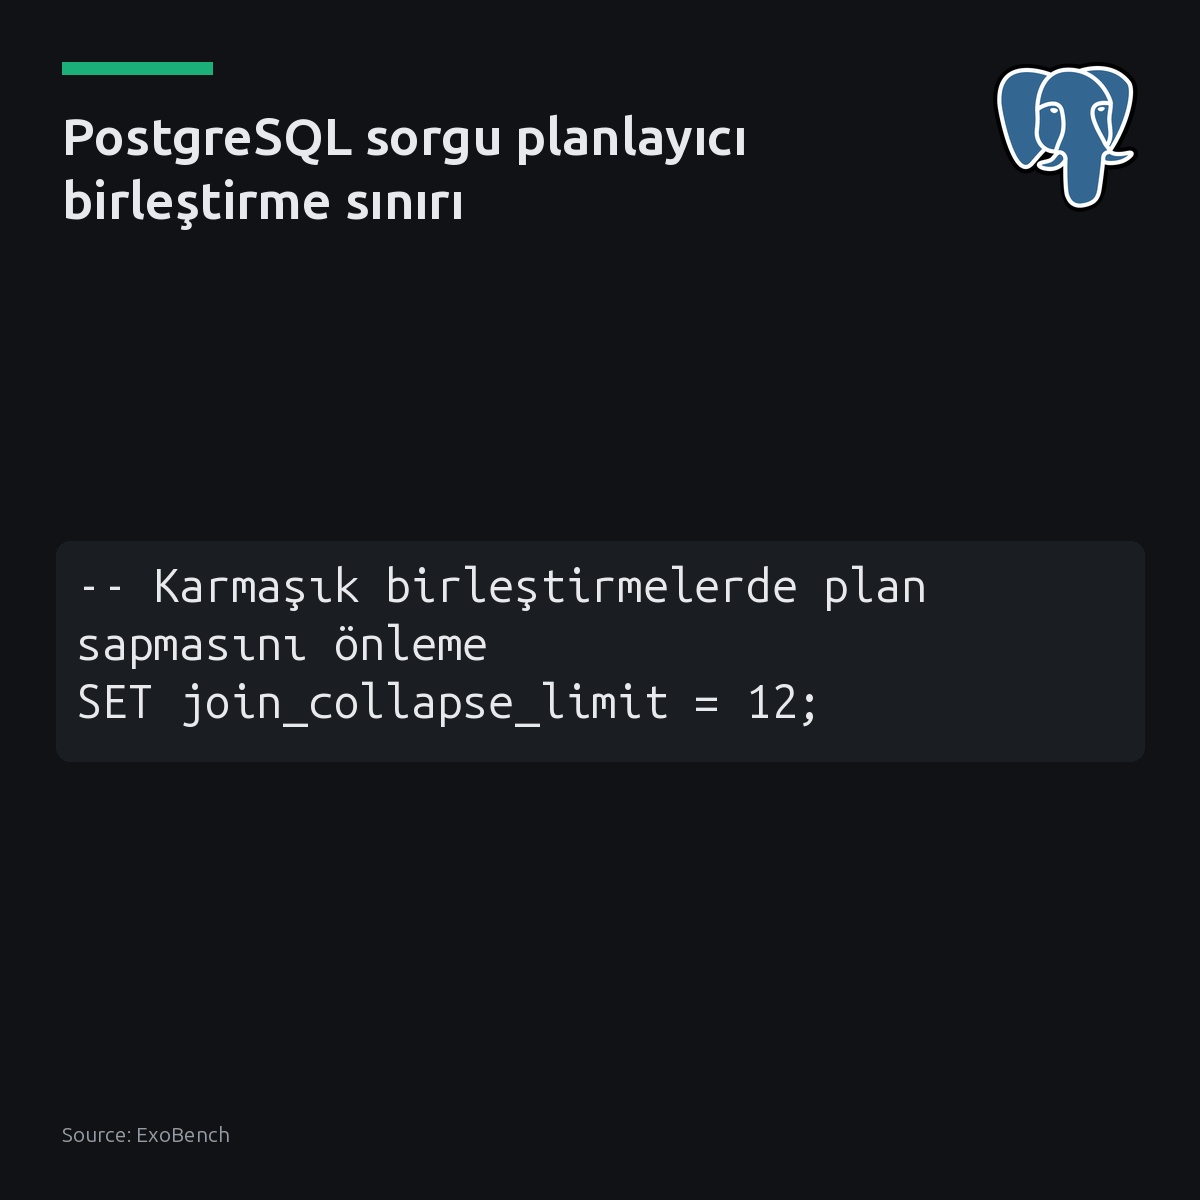
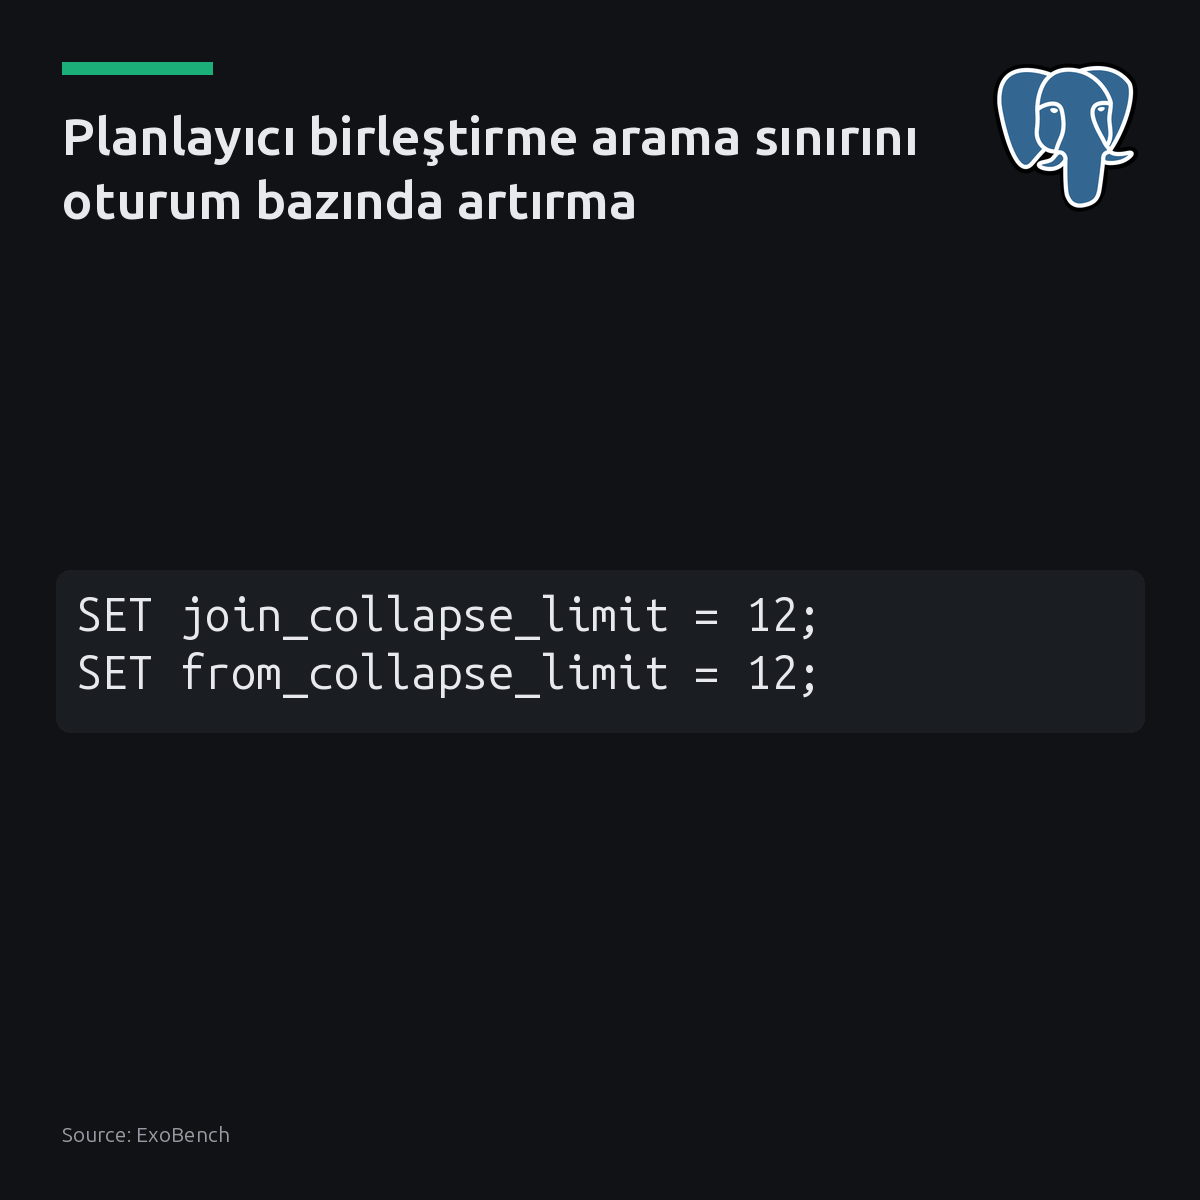
linkedin 2026-09-06: 3 gönderi

Changed region(s): [[0.0617, 0.4625, 0.7708, 0.6167], [0.0308, 0.0925, 0.7708, 0.185]]

diff --git a/linkedin/2026-09-06/index.html b/linkedin/2026-09-06/index.html
@@ -26,37 +26,26 @@ details{margin:.8rem 0 0;font-size:.88rem;color:#5b6067}
 function cp(id,btn){const t=document.getElementById(id).innerText;
  navigator.clipboard.writeText(t).then(()=>{const o=btn.textContent;btn.textContent='Kopyalandı';
  setTimeout(()=>btn.textContent=o,1500)});}
-</script><h1>2026-09-06 — 4 gönderi</h1><p class=sub>Metni kopyala, kartı indir, LinkedIn'de yapıştır. Bağlantılar gönderiye değil ilk yoruma.</p><div class="card"><img src="01-kart.png" alt=""><div class="pad"><pre id="p0">Dokuz tabloluk bir sorguya beş satırlık arama tablosu eklemek, süreyi 0.3ms&#x27;den 467ms&#x27;ye fırlatabiliyor.
+</script><h1>2026-09-06 — 3 gönderi</h1><p class=sub>Metni kopyala, kartı indir, LinkedIn'de yapıştır. Bağlantılar gönderiye değil ilk yoruma.</p><div class="card"><img src="01-kart.png" alt=""><div class="pad"><pre id="p0">Dokuz tabloluk bir sorguya 5 satırlık referans tablosu eklemek, süreyi 0.3 ms&#x27;den 467 ms&#x27;ye fırlattı.
 
-Nedeni tablonun büyüklüğü değil; PostgreSQL&#x27;in 2005&#x27;ten beri varsayılan join_collapse_limit değerinin 8 olması. Planlayıcı sekiz tabloya kadar tüm birleştirme sıralarını eksiksiz tarayarak en uygun planı bulabiliyor. Arama sınırı aşıldığında ise planlayıcı arama maliyetini kısmak için iç içe döngüleri terk edip karma birleştirmeye geçiyor.
+Sorgu bu tablo olmadan her ölçekte 0.3 ms içinde tamamlanıyordu. Sorun veri hacmi değil. PostgreSQL, 2005 yılından beri join_collapse_limit parametresini varsayılan olarak 8 değerinde tutuyor. Sorgudaki tablo sayısı bu eşiği aştığında, optimizasyon motoru dinamik programlama tabanlı kapsamlı arama algoritmasını devreden çıkarıyor. Kısıtlı sezgisellere sapan planlayıcı, indeksli nested loop planı yerine 467 ms süren hash join rotasını seçiyor.
 
-Böyle bir durumda refleks olarak indeks eklemek sorgu planını düzeltmez. Oturum bazında join_collapse_limit değerini 12 seviyesine çekmek, iç içe döngü planını ve milisaniye altı süreyi doğrudan geri kazandırıyor.
+Oturum düzeyinde join_collapse_limit değerini 12&#x27;ye ayarlamak, nested loop planını geri getirerek süreyi yeniden milisaniye düzeyinin altına indiriyor.
 
-Sorgu süresini verinin hacmi değil, planlayıcının arama uzayı sınırı belirler.
+#postgresql #databaseperformance #queryoptimization</pre><button class="main" onclick="cp('p0',this)">Metni kopyala</button><a class="dl" href="01-kart.png" download>Kartı indir</a><details><summary>İlk yorum (bağlantılar)</summary><pre id="c0">Analiz ve test detayları:
+Kart ve veri kaynağı: ExoBench
+[S1], [S2], [S3], [S4], [S5]: https://postgr.es/p/9tP</pre><button onclick="cp('c0',this)">Yorumu kopyala</button></details><p class="meta">Planlayıcı birleştirme arama sınırını oturum bazında artırma · denetim: OK</p></div></div><div class="card"><img src="02-kart.png" alt=""><div class="pad"><pre id="p1">Ajanlar yaygınlaştıkça token harcamaları, personel bütçesinin ardından en büyük ikinci gider kalemi oluyor.
 
-#postgresql #database #queryoptimization</pre><button class="main" onclick="cp('p0',this)">Metni kopyala</button><a class="dl" href="01-kart.png" download>Kartı indir</a><details><summary>İlk yorum (bağlantılar)</summary><pre id="c0">Kaynak ve teknik inceleme:
-- Görsel ve test verileri: ExoBench (https://postgr.es/p/9tP)
-- Alexander Ioffe, PostgreSQL join_collapse_limit analizi: https://postgr.es/p/9tP</pre><button onclick="cp('c0',this)">Yorumu kopyala</button></details><p class="meta">PostgreSQL sorgu planlayıcı birleştirme sınırı · denetim: OK</p></div></div><div class="card"><img src="02-kart.png" alt=""><div class="pad"><pre id="p1">Kubernetes 1.37 ile rootless kubelet betaya geçti.
+Seçenekler arasındaki belirleyici ölçü, görev başına net verimlilik. Rutin veri aktarımı ve şablon sorgu analizlerinde token harcamak insan emeğine kıyasla belirgin tasarruf sağlarken, karmaşık veritabanı mimarisi tasarımlarında kontrolsüz tüketim yerine kıdemli mühendis istihdamı sermayeyi koruyor.
 
-Standart model ile rootless yapılandırma arasındaki kritik fark, kaçış anındaki yetki sınırıdır. Klasik kubelet saldırgana doğrudan ana makine kök yetkisi verirken, rootless modda UID 0 dışarıdaki yetkisiz bir kullanıcıya eşlenir. Yalıtılmış tekil iş yüklerinde standart yapı yetebilir; çok kiracılı veritabanı düğümlerinde ise rootless mimariyi seçin.
+Geliştirme ortamında çalışan ajanların günlük token tüketim dökümüne bakın.
 
-Düğümlerde kubelet sürecinin hangi UID ile çalıştığını denetleyin.
+#tokeneconomics #database #devops</pre><button class="main" onclick="cp('p1',this)">Metni kopyala</button><a class="dl" href="02-kart.png" download>Kartı indir</a><details><summary>İlk yorum (bağlantılar)</summary><pre id="c1">Rapor ve görsel kaynağı: Neon
+https://neon.com/blog/comparing-token-economics-across-42-ai-models</pre><button onclick="cp('c1',this)">Yorumu kopyala</button></details><p class="meta">Personel gideri bir şirketin en büyük maliyetiyse, ajanlar daha fazla iş üstlendikçe token harcamaları çok yakında hemen ikinci sıraya yerleşecek. · denetim: OK</p></div></div><div class="card"><img src="03-kart.png" alt=""><div class="pad"><pre id="p2">PostgreSQL&#x27;e hiç dokunmayan rutin bir çekirdek yaması, tüm HA kümesini dakikalar içinde düşürebilir.
 
-#kubernetes #devops #linux</pre><button class="main" onclick="cp('p1',this)">Metni kopyala</button><a class="dl" href="02-kart.png" download>Kartı indir</a><details><summary>İlk yorum (bağlantılar)</summary><pre id="c1">Kaynaklar:
-- Sürüm destek süreleri: endoflife.date
-- Kubernetes 1.37 Rootless Kubelet duyurusu: https://kubernetes.io/blog/2026/09/04/kubernetes-v1-37-rootless-beta/
-- Konteyner kaçış izolasyonu analizi: https://medium.com/@pujamaheshvari5/kubernetes-rootless-nodes-reducing-what-a-container-breakout-can-actually-reach-dffe75865164?source=rss------devops-5</pre><button onclick="cp('c1',this)">Yorumu kopyala</button></details><p class="meta">Kubernetes sürümlerinde aktif destek süreleri hızla daralıyor · denetim: OK</p></div></div><div class="card"><img src="03-kart.png" alt=""><div class="pad"><pre id="p2">Olası 3 ağ zaman aşımı senaryosunun 2&#x27;sinde yeniden deneme mantığı veritabanını sessizce bozar.
+Veritabanı ikilileri hiç değişmez. Ancak Patroni düğümleri sırayla güncellenirken peş peşe tetiklenen failover adımları, anlık quorum kaybıyla yazma trafiğini tamamen kilitler. Switchover kesinti üretmez fakat en az 1 replika şarttır. Düğümlerde gözetimsiz paket güncellemeleri ve Patroni bakım modu bayrağı incelenmelidir.
 
-İstemci tarafında idempotens anahtarı bulunmadığında, başarılı yazma sonrasındaki ağ kopmalarında tekrarlanan istekler aynı kaydı veritabanında mükerrer işletir. Oluşan kayıtlar günlerce tamamen geçerli görünerek tablolarda fark edilmeden kalır. Uygulama logları tertemizdir. Arka planda ise bakiye ve durum sapmaları sessizce birikir.
+Otomatik failover kurgusu bulunmayan bağımsız sunucularda bu risk oluşmaz.
 
-Elbette salt okunur sorgularda veya veritabanı seviyesinde tekillik kısıtlarıyla korunan tablolarda bu risk geçerli değildir.
-
-#postgresql #database #backend</pre><button class="main" onclick="cp('p2',this)">Metni kopyala</button><a class="dl" href="03-kart.png" download>Kartı indir</a><details><summary>İlk yorum (bağlantılar)</summary><pre id="c2">Kaynak ve detaylı inceleme:
-Medium: https://medium.com/@davuttam/the-bug-that-doesnt-show-up-in-your-logs-until-a-user-finds-it-5f326b60d0c3?source=rss------postgresql-5</pre><button onclick="cp('c2',this)">Yorumu kopyala</button></details><p class="meta">İdempotens anahtarları bulunmayan yeniden deneme mantığı neden sessiz veri bozulması yaratır ve Python&#x27;da nasıl çözülür · denetim: OK</p></div></div><div class="card"><img src="04-kart.png" alt=""><div class="pad"><pre id="p3">Ajanlar operasyonu ucuzlatmıyor; token faturası personel giderinin hemen ardından ikinci sıraya yerleşiyor.
-
-Geliştirici maliyetini sıfırlama vaadi yaygın bir kabul görüyor, ancak tüketim verisi bunu yalanlıyor. 50 mühendisin günlük ajan kullanımında model seçimi ayda 18 bin dolarlık fark yaratıyor. 500 mühendiste bu makas 86 kata çıkıyor.
-
-Kota ve döngü denetimi işletilmediğinde sistem tasarruf üretmiyor, bordro harcamasını bulut faturasına devrediyor.
-
-#aiagents #devops #finops</pre><button class="main" onclick="cp('p3',this)">Metni kopyala</button><a class="dl" href="04-kart.png" download>Kartı indir</a><details><summary>İlk yorum (bağlantılar)</summary><pre id="c3">Analiz kaynağı: Neon (Comparing Token Economics Across 42 AI Models)
-https://neon.com/blog/comparing-token-economics-across-42-ai-models</pre><button onclick="cp('c3',this)">Yorumu kopyala</button></details><p class="meta">Bir şirketin en büyük maliyeti genelde personel gideriyse, ajanlar daha fazla iş üstlendikçe token maliyetleri çok yakında ikinci sıraya yerleşecek. · denetim: OK</p></div></div>
+#postgresql #patroni #highavailability</pre><button class="main" onclick="cp('p2',this)">Metni kopyala</button><a class="dl" href="03-kart.png" download>Kartı indir</a><details><summary>İlk yorum (bağlantılar)</summary><pre id="c2">Kaynak ve teknik inceleme:
+Planet PostgreSQL: https://postgr.es/p/9tQ</pre><button onclick="cp('c2',this)">Yorumu kopyala</button></details><p class="meta">Rutin bir işletim sistemi yaması, PostgreSQL&#x27;in kendisine hiç dokunulmasa bile veritabanını çevrimdışı bırakabilir. · denetim: OK</p></div></div>
